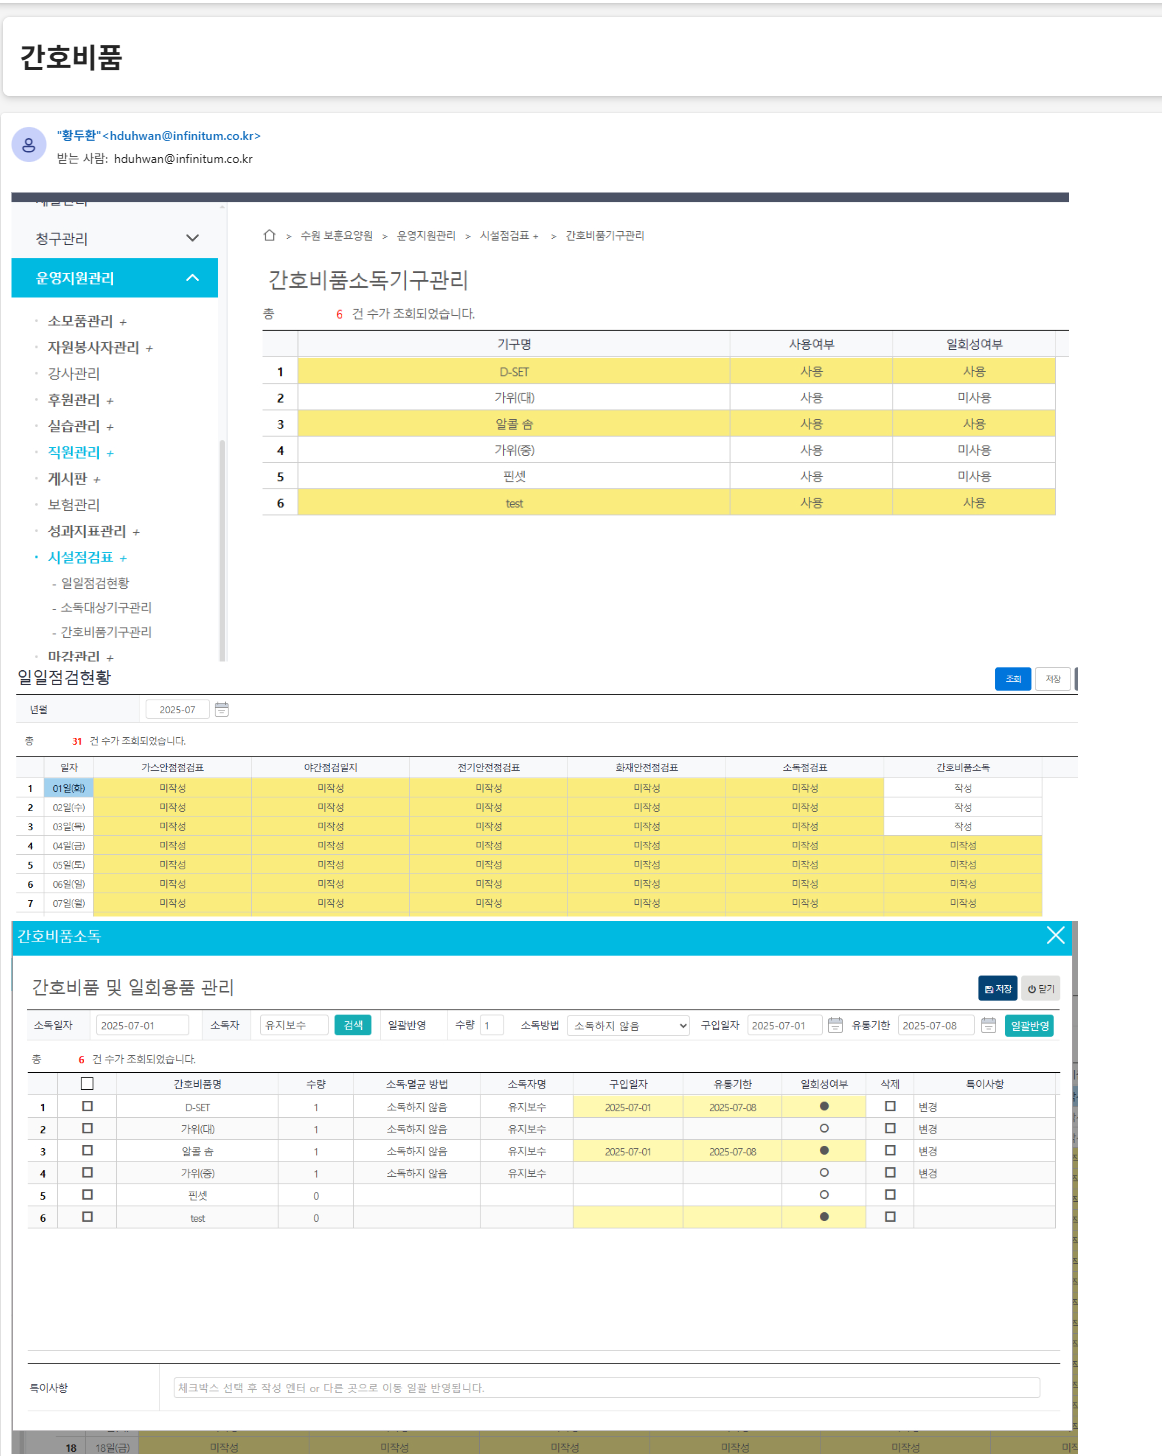
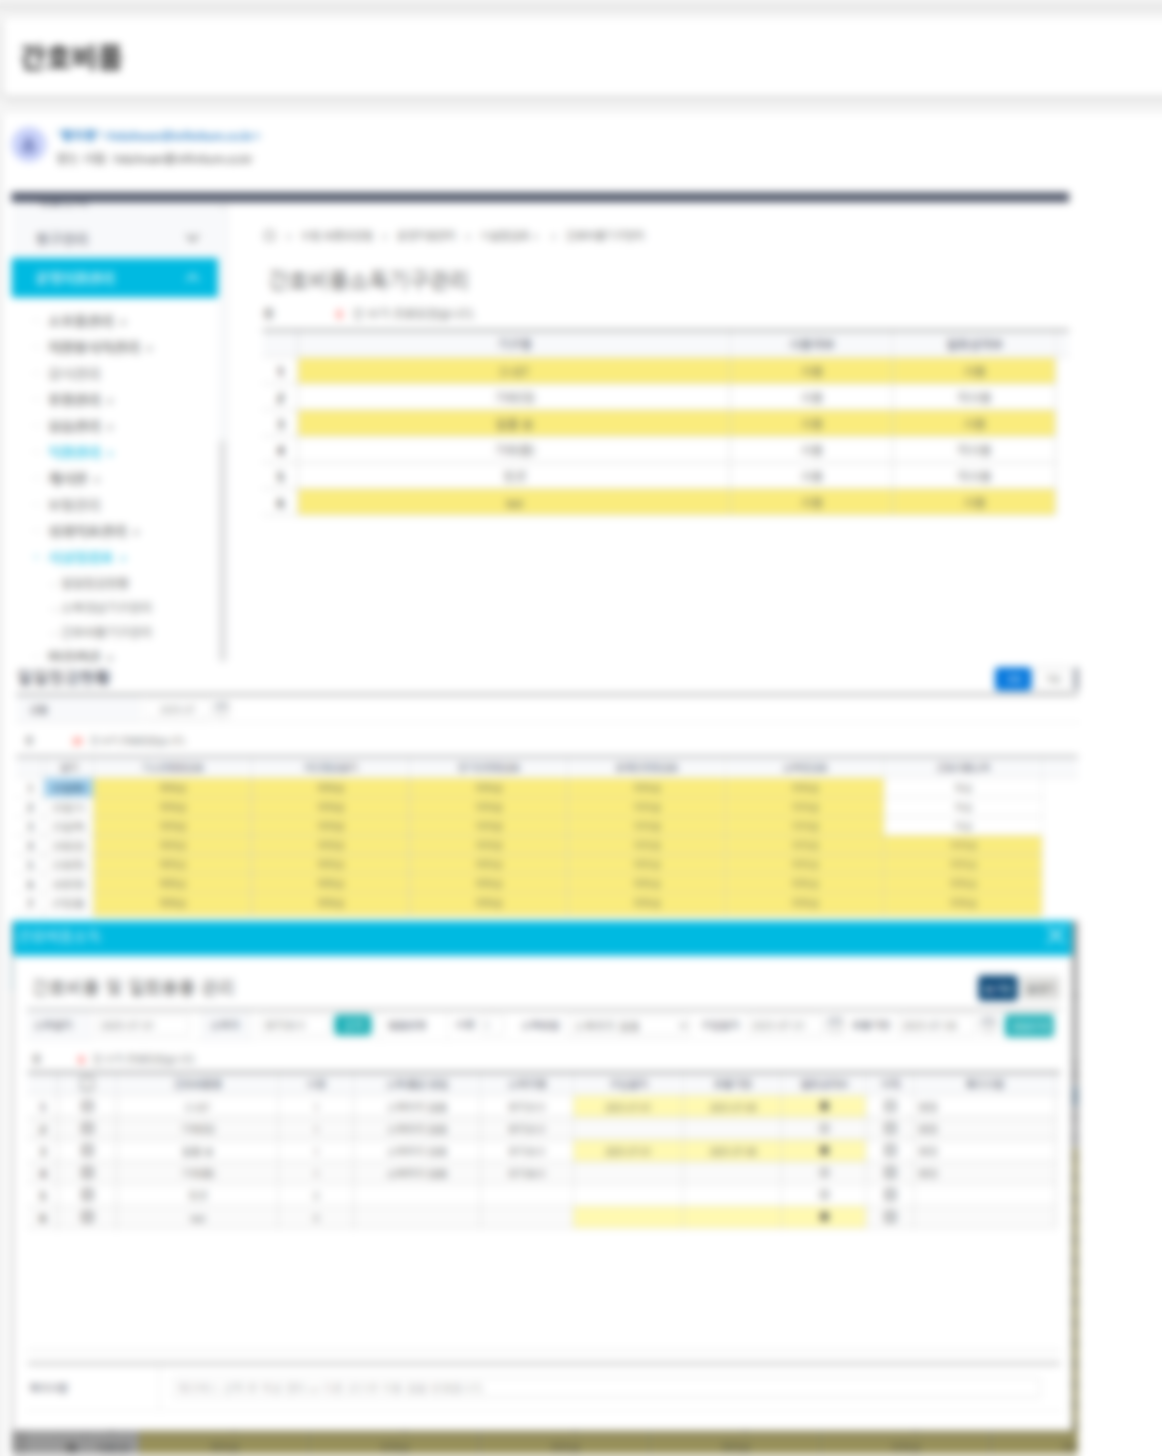
feat:이미지 변경

Changed region(s): [[0.0, 0.0309, 0.9294, 1.0], [0.8365, 0.4327, 0.9294, 0.4945], [0.2478, 0.7418, 0.2788, 0.7727]]

diff --git a/index.html b/index.html
@@ -310,12 +310,12 @@
             </div>
 
             <div class="image-gallery">
-                <div class="image-item"><img src="infinitum/img/1.png" alt="Infinitum Screenshot 1" class="blur-image"></div>
-                <div class="image-item"><img src="infinitum/img/2.png" alt="Infinitum Screenshot 2" class="blur-image"></div>
-                <div class="image-item"><img src="infinitum/img/3.png" alt="Infinitum Screenshot 3" class="blur-image"></div>
-                <div class="image-item"><img src="infinitum/img/4.png" alt="Infinitum Screenshot 4" class="blur-image"></div>
-                <div class="image-item"><img src="infinitum/img/5.png" alt="Infinitum Screenshot 5" class="blur-image"></div>
-                <div class="image-item"><img src="infinitum/img/5-1.png" alt="Infinitum Screenshot 5-1" class="blur-image"></div>
+                <div class="image-item"><img src="infinitum/img/1.png" alt="Infinitum Screenshot 1"></div>
+                <div class="image-item"><img src="infinitum/img/2.png" alt="Infinitum Screenshot 2"></div>
+                <div class="image-item"><img src="infinitum/img/3.png" alt="Infinitum Screenshot 3"></div>
+                <div class="image-item"><img src="infinitum/img/4.png" alt="Infinitum Screenshot 4"></div>
+                <div class="image-item"><img src="infinitum/img/5.png" alt="Infinitum Screenshot 5"></div>
+                <div class="image-item"><img src="infinitum/img/5-1.png" alt="Infinitum Screenshot 5-1"></div>
             </div>
         </section>
 
